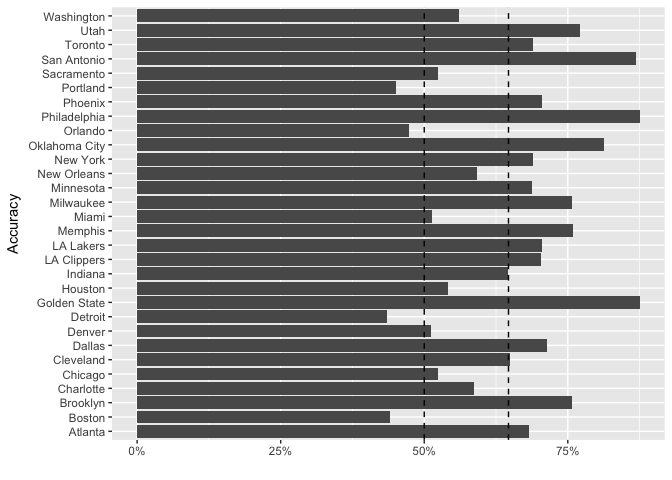
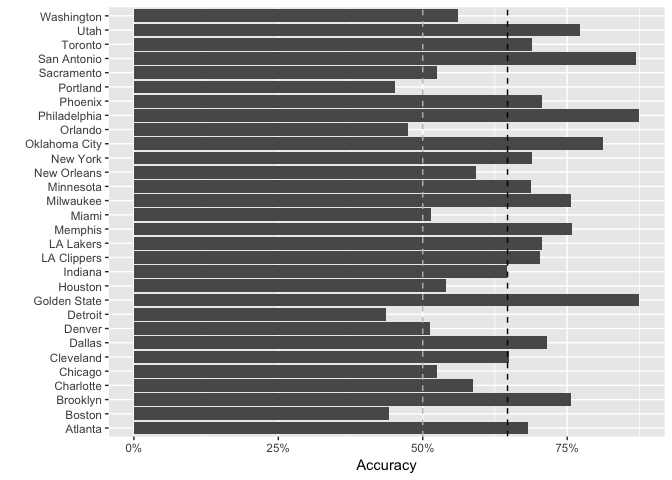
adding cool repel labels to readme

diff --git a/readme.md b/readme.md
@@ -12,7 +12,7 @@ Forecasting and Basketball
 
 So what does this have to do with basketball? In many ways, basketball is a perfect case study for forecasting. The outcome of future games are affected by many different factors; a team's current performance, momentum, the strength of its roster compared to its opponents, as well as the travel schedule. If a team looks great on paper and it's winning games, it'll likely do well in the future. But factors like injuries, coaching changes, and trades can curtail success very quickly. Thus, any model-based prediction is only accurate until something happens that is unaccounted for in the model.
 
-This post discusses a new data-driven approach to predicting the outcome of NBA games. I call this the *Elastic NBA Rankings*. If you love statistics and basketball, then this is the post for you.
+This post discusses a new data-driven approach to predicting the outcome of NBA games. I call this the *Elastic NBA Rankings*. If you love statistics, R *and* basketball, then this is the post for you.
 
 The model is based on techniques frequently used across various industries to predict bankruptcy, fraud or customer buying behavior. While it's certain that the model is wrong -- all models are -- I'm hoping that it will also be useful.
 
@@ -39,7 +39,11 @@ The model predicts the outcome of future NBA games for the current season. It do
 Where to Find the Model Predictions
 -----------------------------------
 
-All rankings and scores can be found in [this github repo](https://github.com/klarsen1/NBA_RANKINGS). The easiest way to extract the data is to directly read the [raw files](https://raw.githubusercontent.com/klarsen1/NBA_RANKINGS/master/modeldetails).There are two main files of interest:
+All rankings and scores can be found in [this github repo](https://github.com/klarsen1/NBA_RANKINGS). The easiest way to extract the data is to directly read the [raw files](https://raw.githubusercontent.com/klarsen1/NBA_RANKINGS/master/modeldetails).
+
+The predictions will be updated weekly with a new time-stamp.
+
+There are two main files of interest:
 
 -   game\_level\_predictions\_2016-MM-DD.csv -- Game-level predictions for each future game.
 -   rankings\_2016-MM-DD.csv -- team rankings and predicted win rates.
@@ -84,11 +88,11 @@ X\_1 = % of minutes allocated to cluster 1, X\_2 = % of minutes allocated to clu
 
 Z\_1 = % of minutes allocated to cluster 1, Z\_2 = % of minutes allocated to cluster 2, etc.
 
-From these variables we construct the “delta variables” given by
+From these variables we construct the “delta variables” between team 1 and team 2:
 
 D\_1 = X\_1 – Z\_1, D\_2 = X\_2 – Z\_2, etc.
 
-These variables are then directly entered into the logistic regression model (labeled as share\_minutes\_cluster\_XX). The regression model then estimates the importance of each archetype. Hence, for team 1's roster to be considered strong, compared to team 2, it must have a surplus of minutes allocated to archetypes with large and positive coefficients, and vice versa for archetypes with negative coefficients.
+These variables are then directly entered into the logistic regression model (labeled as share\_minutes\_cluster\_XX in the coefficient files). The regression model then estimates the importance of each archetype. Hence, for team 1's roster to be considered strong, compared to team 2, it must have a surplus of minutes allocated to archetypes with large and positive coefficients, and vice versa for archetypes with negative coefficients.
 
 How Are Players Assigned to Archetypes?
 ---------------------------------------
@@ -105,7 +109,7 @@ Deciding the Winner of a Game
 
 The current implementation uses the estimated probabilities from the regularized logistic regression model to pick the winner of a given game. If the estimated probability of a given team winning exceeds 50%, then that team is declared the winner.
 
-I've also been playing around with a simulation approach where each game is "played"" 1000 times, varying the distribution of minutes across archetypes in each iteration. For the season rankings, this did not alter the overall conclusion, although it did provide a better measure of prediction uncertainties.
+I've also been playing around with a simulation approach where each game is "played"" 1000 times, varying the distribution of minutes across archetypes in each iteration. For the overall season rankings this did not alter the overall conclusion, although it did provide a better measure of prediction uncertainties. For example, for the 2015 validation, the model predicted that Golden State would have won *all* its games (see example below). A simulation approach would have done a better job incorporating uncertainty.
 
 For simulation playoffs I have been using the simulation approach. This will be covered in another post.
 
@@ -183,7 +187,7 @@ But what about Atlanta? The elastic model ranks Atlanta fourth in terms of overa
 -   Performance -- e.g., win percentages, previous match-ups.
 -   Circumstances -- e.g., travel, rest, home-count advantage
 
-For the stats-oriented readers, here's how this works: the underlying predictive variables were multiplied by their respective coefficients, and then aggregated to get the group contributions to the predicted log-odds. The CSV file called score\_decomp\_2016\_MM\_DD contains this information. The code below shows how to use this file:
+Here's how this works: the underlying predictive variables were multiplied by their respective coefficients, and then aggregated to get the group contributions to the predicted log-odds. The CSV file called score\_decomp\_2016\_MM\_DD contains this information. The code below shows how to use this file:
 
 ``` r
 library(tidyr)
@@ -222,7 +226,7 @@ Backtesting
 
 The model was used to predict all games from 2015-11-20 to the end the 2015-2016 season, using only information available as of 2015-11-19 (including model coefficients). This is roughly a five month forecast window (the season ends in April); most teams played around 70 games during this period. I picked this date because the latest model-run for this post was 2016-11-20.
 
-The game level accuracy for the entire period was 64.3% -- i.e., the model predicted the correct winner for 64.3% of games.
+The game level accuracy for the entire period was 64.7% -- i.e., the model predicted the correct winner for 64.7% of games.
 
 The [area under the ROC curve](https://en.wikipedia.org/wiki/Receiver_operating_characteristic) was 0.725.
 
@@ -232,27 +236,32 @@ The code below compares the actual rankings to the predicted rankings (note that
 library(dplyr)
 library(knitr)
 library(ggplot2)
- 
+library(ggrepel) ## downloaded from github
+
 f <-
   "https://raw.githubusercontent.com/klarsen1/NBA_RANKINGS/master/rankings/ranking_validation_2015.csv"
  
 ranks <- read.csv(f) %>% select(team, rank_actual, rank_pred) %>%
-  mutate(diff=abs(rank_pred-rank_actual)) %>%
+  mutate(diff=abs(rank_pred-rank_actual), 
+         misslvl=ifelse(diff>10, 1, ifelse(diff<5, 2, 3))) %>%
   arrange(rank_pred) 
 
 ggplot(ranks, aes(x=rank_pred, y=rank_actual)) +
   xlab("Predicted Rank") + ylab("Actual Rank") +
+  geom_point(aes(rank_pred, rank_actual), size = 2, color = 'black') +
   geom_smooth(method='lm') + 
-  geom_text(aes(label=team), hjust=0, vjust=1, size=2) + 
-  geom_point(color="green", size=3) +
-  geom_point(data=filter(ranks, diff>10), colour="red", size=3) 
+  geom_label_repel(aes(rank_pred, rank_actual, fill = factor(misslvl), label = team),
+                  fontface = 'bold', color = 'white', size=2,
+                  box.padding = unit(0.35, "lines"),
+                  point.padding = unit(0.5, "lines")) + 
+  theme(legend.title = element_blank()) + theme(legend.position="none")
 ```
 
 ![](readme_files/figure-markdown_github/unnamed-chunk-3-1.png)
 
 The predicted team rankings were also in line with the actual team rankings (correlation is 66%), except for some significant misses like the Chicago Bulls, Denver and Portland. There might be good reasons why the model misjudged these teams so early in the season (for example, Chicago has been injury plagued). More investigation is needed here.
 
-Next, let's check the game-level predictions for this period. The chart below shows the game-level accuracy for each team. The vertical lines show the overall match rate as well as the match rate we would get from a random draw (50%):
+Next, let's check the game-level predictions for this period. The chart below shows the game-level accuracy for each team. The vertical lines show the overall match rate (64.7%) as well as the match rate we would get from a random draw (50%):
 
 ``` r
 library(dplyr)
@@ -273,8 +282,9 @@ mutate(game_level, match=as.numeric(selected_team_win==d_pred_selected_team_win)
   group_by(team) %>%
   summarise(team_match_percent=mean(match)) %>%
   ggplot(aes(team, team_match_percent)) + geom_bar(stat="identity") + coord_flip() +
-  xlab("Accuracy") + ylab("") + theme(legend.title = element_blank()) + 
-  geom_hline(yintercept = c(0.5, overall_match_rate), linetype=2) + 
+  xlab("") + ylab("Accuracy") + theme(legend.title = element_blank()) + 
+  geom_hline(yintercept = overall_match_rate, linetype=2, color='black') +
+  geom_hline(yintercept = .5, linetype=2, color='grey') +
   scale_y_continuous(labels = scales::percent)
 ```
 
